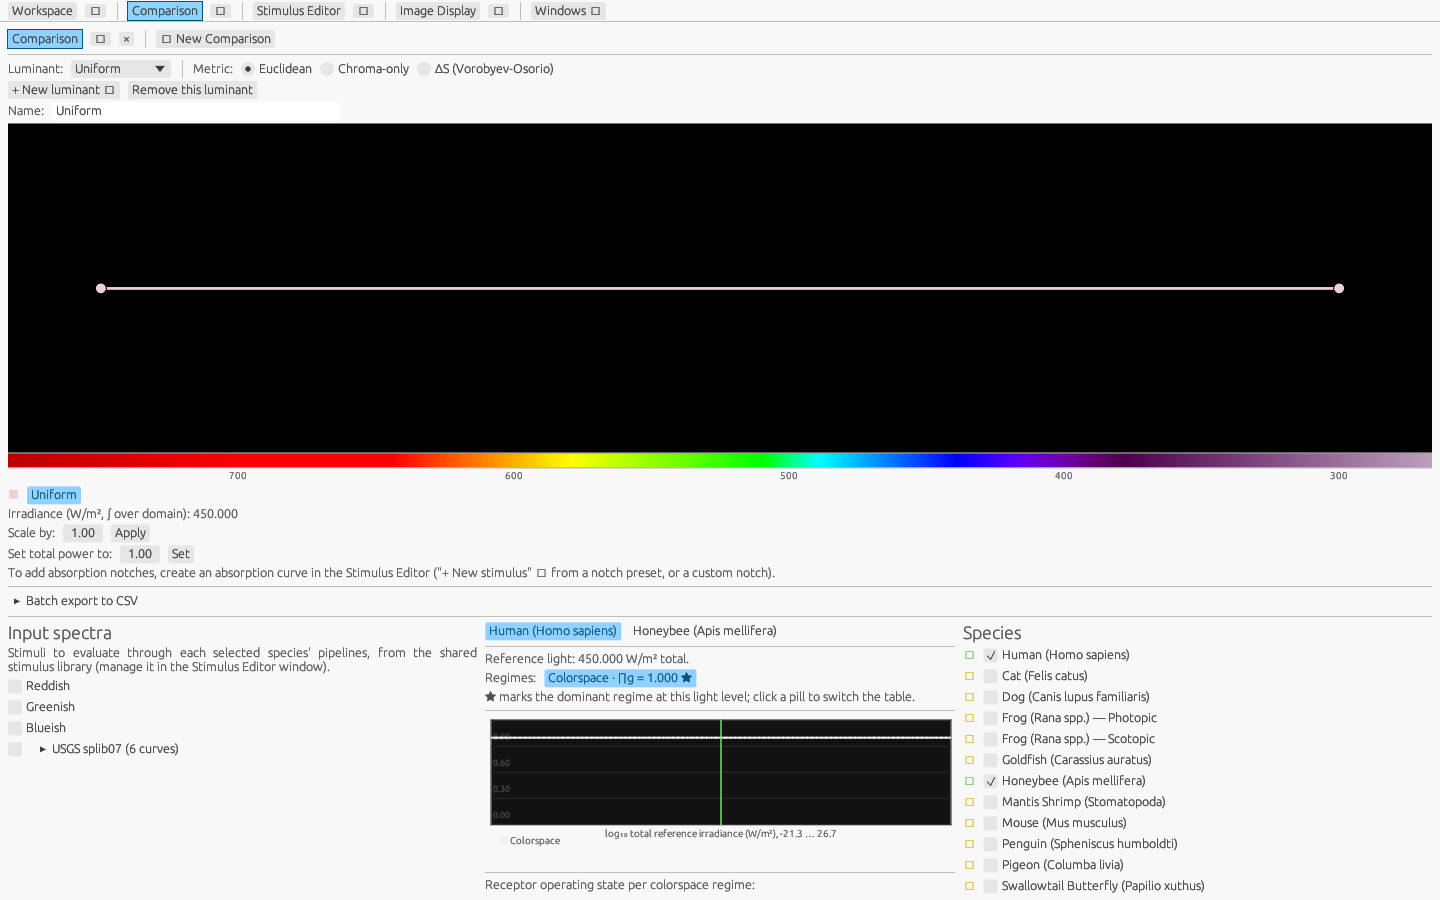
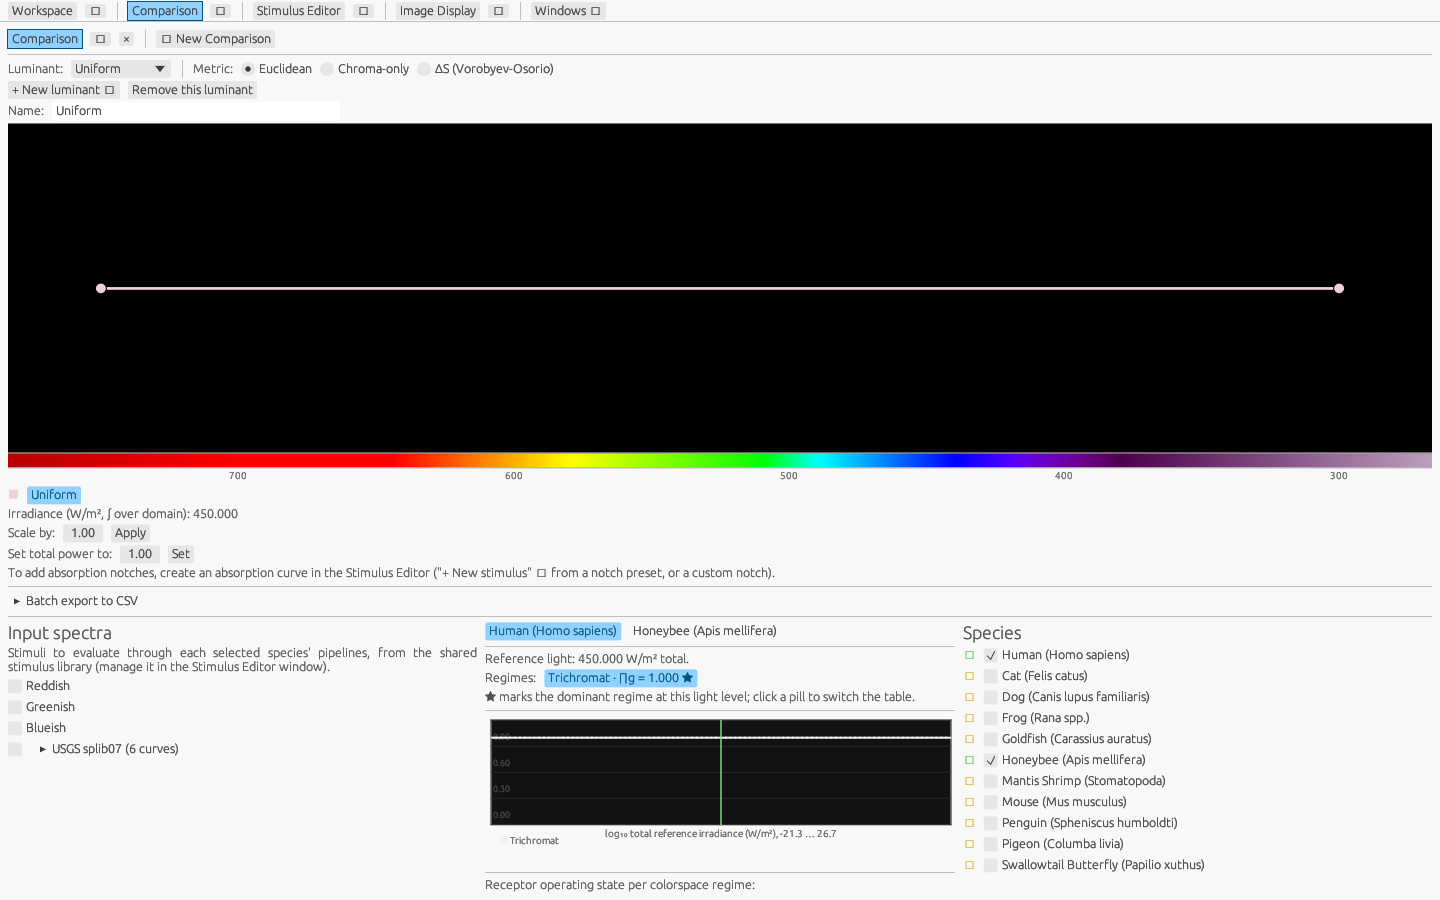
Update the human fixture for more accurate images

Changed region(s): [[0.6875, 0.7778, 0.8438, 0.9956], [0.375, 0.7467, 0.4688, 0.7778]]

diff --git a/crates/xenovision-core/src/fixture_library.rs b/crates/xenovision-core/src/fixture_library.rs
@@ -3,9 +3,13 @@
 //! `fixtures` subdirectory of the app's per-user data directory
 //! (`preset_store::data_dir()`) - not one combined array, so a fixture
 //! can be added, hand-edited, or deleted independently of the rest.
-//! Bootstrapped from `fixtures::builtin_fixtures()` on first run, with
-//! `restore_builtin_defaults` as the recovery mechanism if a built-in
-//! file gets corrupted or deleted.
+//! Bootstrapped from `fixtures::builtin_fixtures()` on first run. On every
+//! load the built-ins are also *reconciled* against the shipped
+//! definitions: a built-in file the user has never edited is refreshed
+//! when the shipped definition has moved on, while edited files and
+//! custom fixtures are left alone. `restore_builtin_defaults` remains the
+//! explicit recovery mechanism if a built-in file gets corrupted or
+//! deleted.
 
 use std::path::{Path, PathBuf};
 
@@ -43,6 +47,49 @@ fn file_path_for(dir: &Path, name: &str) -> PathBuf {
     dir.join(format!("{}.json", slug(name)))
 }
 
+/// Metadata key stamped into every file the app writes from a built-in
+/// definition: the content hash of that definition *excluding this key*.
+/// It lets reconciliation tell an unedited built-in snapshot (marker
+/// present and matching) from user content (marker absent or mismatched,
+/// or a name that isn't a built-in) - only the former is ever refreshed
+/// to a newer shipped definition.
+const BUILTIN_HASH_KEY: &str = "builtin_hash";
+
+/// Stable 64-bit FNV-1a hash of a fixture's canonical JSON with the
+/// built-in marker removed. Unlike `DefaultHasher` this is stable across
+/// releases, so a marker written by an earlier build still validates.
+fn content_hash(set: &CurveSet) -> u64 {
+    let mut probe = set.clone();
+    probe.metadata.remove(BUILTIN_HASH_KEY);
+    let json = serde_json::to_string(&probe).expect("CurveSet is always serializable");
+    json.bytes().fold(0xcbf2_9ce4_8422_2325_u64, |h, b| {
+        (h ^ u64::from(b)).wrapping_mul(0x0000_0100_0000_01b3)
+    })
+}
+
+/// The marker string for `set`'s current content.
+fn builtin_marker(set: &CurveSet) -> String {
+    format!("{:016x}", content_hash(set))
+}
+
+/// A built-in fixture as written to disk: `set` with its content marker
+/// stamped into the metadata.
+fn stamped_builtin(set: &CurveSet) -> CurveSet {
+    let mut out = set.clone();
+    out.metadata
+        .insert(BUILTIN_HASH_KEY.to_string(), builtin_marker(set));
+    out
+}
+
+/// Whether `set`, as loaded from disk, is an unedited snapshot of some
+/// built-in definition (its marker is present and still matches its own
+/// content). User edits break the match and are therefore preserved.
+fn is_unedited_builtin(set: &CurveSet) -> bool {
+    set.metadata
+        .get(BUILTIN_HASH_KEY)
+        .is_some_and(|stored| *stored == builtin_marker(set))
+}
+
 fn read_all(dir: &Path) -> Vec<CurveSet> {
     let Ok(entries) = std::fs::read_dir(dir) else {
         return Vec::new();
@@ -65,20 +112,37 @@ fn write_fixture_in(dir: &Path, set: &CurveSet) -> std::io::Result<()> {
     std::fs::write(path, json)
 }
 
+/// Refreshes any present built-in file that is still an unedited snapshot
+/// of a *previous* shipped definition, leaving user-edited and custom
+/// files untouched. A built-in the user deleted stays deleted.
+fn reconcile_builtins_in(dir: &Path, sets: &mut [CurveSet]) {
+    for builtin in builtin_fixtures() {
+        let Some(disk) = sets.iter_mut().find(|s| s.name == builtin.name) else {
+            continue;
+        };
+        if is_unedited_builtin(disk) && content_hash(disk) != content_hash(&builtin) {
+            *disk = stamped_builtin(&builtin);
+            let _ = write_fixture_in(dir, disk);
+        }
+    }
+}
+
 fn load_library_from(dir: &Path) -> Vec<CurveSet> {
-    let sets = read_all(dir);
-    if !sets.is_empty() {
-        return sets;
+    let mut sets = read_all(dir);
+    if sets.is_empty() {
+        // First run (empty/missing directory): extract every built-in.
+        for set in builtin_fixtures() {
+            let _ = write_fixture_in(dir, &stamped_builtin(&set));
+        }
+        return read_all(dir);
     }
-    for set in builtin_fixtures() {
-        let _ = write_fixture_in(dir, &set);
-    }
-    read_all(dir)
+    reconcile_builtins_in(dir, &mut sets);
+    sets
 }
 
 fn restore_builtin_defaults_in(dir: &Path) -> Vec<CurveSet> {
     for set in builtin_fixtures() {
-        let _ = write_fixture_in(dir, &set);
+        let _ = write_fixture_in(dir, &stamped_builtin(&set));
     }
     read_all(dir)
 }
@@ -257,6 +321,110 @@ mod tests {
         // Deleting an already-absent fixture is not an error.
         delete_fixture_in(&dir, "Deletable System").unwrap();
 
+        cleanup(&dir);
+    }
+
+    #[test]
+    fn bootstrapped_builtins_are_stamped_and_idempotent() {
+        let dir = scratch_dir("stamp");
+        let loaded = load_library_from(&dir);
+        assert_eq!(loaded.len(), 11);
+        assert!(
+            loaded.iter().all(is_unedited_builtin),
+            "every bootstrapped built-in must carry a matching marker"
+        );
+        assert_eq!(
+            load_library_from(&dir),
+            loaded,
+            "a second load with unchanged built-ins is a no-op"
+        );
+        cleanup(&dir);
+    }
+
+    #[test]
+    fn unedited_builtin_is_refreshed_when_the_shipped_definition_changes() {
+        let dir = scratch_dir("refresh");
+
+        // A previous release's built-in: the real fixture with one extra
+        // field, stamped so it reads as a genuine unedited snapshot.
+        let mut old_human = crate::fixtures::human();
+        old_human
+            .metadata
+            .insert("era".to_string(), "previous".to_string());
+        write_fixture_in(&dir, &stamped_builtin(&old_human)).unwrap();
+        // A custom fixture must survive untouched.
+        write_fixture_in(&dir, &CurveSet::new("My Custom System")).unwrap();
+
+        let loaded = load_library_from(&dir);
+        let human = loaded
+            .iter()
+            .find(|s| s.name == "Human (Homo sapiens)")
+            .unwrap();
+        assert!(
+            !human.metadata.contains_key("era"),
+            "an unedited built-in must be refreshed to the shipped definition"
+        );
+        assert!(
+            loaded.iter().any(|s| s.name == "My Custom System"),
+            "custom fixtures must survive reconciliation"
+        );
+        cleanup(&dir);
+    }
+
+    #[test]
+    fn edited_or_tampered_builtin_is_preserved() {
+        // An unmarked file (as a user save would leave it) ...
+        let dir = scratch_dir("preserve-unmarked");
+        let mut edited = crate::fixtures::human();
+        edited
+            .metadata
+            .insert("user_edit".to_string(), "keep me".to_string());
+        write_fixture_in(&dir, &edited).unwrap();
+        let loaded = load_library_from(&dir);
+        let human = loaded
+            .iter()
+            .find(|s| s.name == "Human (Homo sapiens)")
+            .unwrap();
+        assert_eq!(
+            human.metadata.get("user_edit").map(String::as_str),
+            Some("keep me"),
+            "a user-edited built-in must not be overwritten"
+        );
+        cleanup(&dir);
+
+        // ... and a stamped file whose content later diverged from its
+        // marker (an edit made after the snapshot was written).
+        let dir = scratch_dir("preserve-tampered");
+        let mut tampered = stamped_builtin(&crate::fixtures::human());
+        tampered
+            .metadata
+            .insert("user_edit".to_string(), "keep me too".to_string());
+        write_fixture_in(&dir, &tampered).unwrap();
+        let loaded = load_library_from(&dir);
+        let human = loaded
+            .iter()
+            .find(|s| s.name == "Human (Homo sapiens)")
+            .unwrap();
+        assert_eq!(
+            human.metadata.get("user_edit").map(String::as_str),
+            Some("keep me too"),
+            "a built-in whose marker no longer matches is user content"
+        );
+        cleanup(&dir);
+    }
+
+    #[test]
+    fn deleted_builtin_stays_deleted() {
+        let dir = scratch_dir("deleted");
+        load_library_from(&dir); // bootstrap the 11 built-ins
+        delete_fixture_in(&dir, "Human (Homo sapiens)").unwrap();
+
+        let loaded = load_library_from(&dir);
+        assert_eq!(loaded.len(), 10, "a deleted built-in is not resurrected");
+        assert!(
+            !loaded.iter().any(|s| s.name == "Human (Homo sapiens)"),
+            "reconciliation must respect a user's deletion"
+        );
         cleanup(&dir);
     }
 }

diff --git a/crates/xenovision-core/src/fixtures.rs b/crates/xenovision-core/src/fixtures.rs
@@ -108,6 +108,11 @@ pub fn human() -> CurveSet {
     // exercised through real CurveSet data per §8.2's representability
     // requirement. `opponent_contrasts` lives on the regime - the
     // colorspace it defines - not the set (§2.2).
+    //
+    // The blue-yellow row is written yellow-positive, i.e. negated from the
+    // textbook S - (M+L)/2, so the composite encoder (whose c2 grows towards
+    // yellow) renders a Human perceptual image with blue/yellow the right way
+    // round. Magnitude-only metrics such as ΔS are unaffected by the sign.
     set.regimes = vec![Regime::new(SINGLE_COLOR_VISION_REGIMES[0], vec![0, 1, 2])];
     set.regimes[0].opponent_contrasts = Some(vec![
         OpponentContrast {
@@ -115,8 +120,8 @@ pub fn human() -> CurveSet {
             weights: vec![0.0, -1.0, 1.0],
         },
         OpponentContrast {
-            name: "S - (M+L)/2 (blue-yellow)".to_string(),
-            weights: vec![1.0, -0.5, -0.5],
+            name: "(M+L)/2 - S (yellow-blue)".to_string(),
+            weights: vec![-1.0, 0.5, 0.5],
         },
     ]);
 
@@ -801,7 +806,7 @@ mod tests {
         let config = set.regime_config(&set.regimes[0]);
         assert_eq!(
             config.candidate_rows,
-            vec![vec![0.0, -1.0, 1.0], vec![1.0, -0.5, -0.5]]
+            vec![vec![0.0, -1.0, 1.0], vec![-1.0, 0.5, 0.5]]
         );
         assert_eq!(
             contrasts[0].weights,

diff --git a/docs/user-guide.md b/docs/user-guide.md
@@ -1,7 +1,5 @@
 # Xenovision User Guide
 
-A reference to every window, menu, and gesture in the current build.
-
 ## Overview
 
 Xenovision models and compares how different species perceive color. You
@@ -9,10 +7,10 @@ define a **visual system** as a set of photoreceptor sensitivity curves,
 Xenovision derives that system's luminance and chroma channels from them, and
 then evaluates arbitrary **stimulus spectra** (reflectance samples, light
 sources) through it to get perceptual coordinates and distances. Eleven
-literature-based species are built in, from trichromatic humans to the
+literature-based species are built in, from dichromatic dogs to the
 twelve-receptor mantis shrimp, and you can define your own alongside them.
 
-The interface is four panels - **Workspace**, **Comparison**, **Stimulus
+The interface consists of four panels - **Workspace**, **Comparison**, **Stimulus
 Editor**, and **Image Display** - sharing one window model (see
 [Arranging windows](#arranging-windows)): each panel is a **container** with
 its own top-level tab in the main window, each container holds one or more
@@ -34,39 +32,33 @@ right.](screenshots/main-window.png)
 - **Image Display** - render a loaded image (or one region of it) through a
   visual system's receptors and inspect the result channel by channel.
 
-Comparison, Stimulus Editor, and Image Display are **repeatable**: open
-several independent instances at once, each with its own setup, from a
-container's **＋ New** button or the **Windows** menu. They start closed on
-first launch.
-
 All four read and write the same underlying data. Edit a curve in Workspace
-and an open Comparison window updates on its next repaint - there's no
-separate "sync" step anywhere in the app.
+and an open Comparison window updates on its next repaint.
 
 ## Core concepts
 
-Xenovision standardizes on four curve types, plus two roles a curve can
-play:
+Xenovision standardizes on four curve types, plus three roles a curve can play:
 
 | Type | Meaning |
 |---|---|
 | **Sensitivity** | Unitless. A sample is meaningful only relative to the other curves in the same visual system - a receptor's response shape, not an absolute measurement. Always a Workspace curve, never a stimulus. |
-| **Radiance** | Units of power per area (an explicit unit string you set). A measurement of light itself - emitted, reflected, or otherwise reaching a point. |
+| **Radiance** | Units of power per area. A measurement of light itself - emitted, reflected, or otherwise reaching a point. |
 | **Reflectance** | Unitless, normalized so every sample is meant to fall in `[0, 1]` - a ratio describing a surface, not light itself. The Stimulus Editor flags (non-blocking) a curve with values outside that range. |
 | **Absorption** | Unitless, every sample in `[0, 1]`: the fraction of light an absorber lets through at that wavelength (1 = nothing absorbed). Applied to a luminant by point-wise multiplication, with a weight exponent: `luminant × absorption^weight` (0 = no effect, 1 = as-is, 2 = twice as strong, like passing through it twice). Atmospheric notches are absorption curves. |
 
 | Role | Meaning |
 |---|---|
+| **Response** | A Sensitivity curve indicating the response of a photoreceptor to incoming light at any frequency. |
 | **Luminant** | A Radiance curve used as the shared reference light every comparison is evaluated under. Managed in the Comparison window. |
-| **Stimulus curve** | Either a Radiance curve directly, or a Reflectance curve - in which case Comparison automatically filters it through the current luminant (`Reflectance × Luminant`) before evaluating it, rather than treating the raw ratio as if it were already light reaching the eye. Lives in the shared stimulus library (Stimulus Editor window), never in a Workspace tab. |
+| **Stimulus curve** | Either a Radiance curve directly, or a Reflectance curve - in which case Comparison automatically filters it through the current luminant (`Reflectance × Luminant`) before evaluating it, rather than treating the raw ratio as if it were already light reaching the eye. Lives in the shared stimulus library (Stimulus Editor window). |
 
 Other terms used throughout:
 
 | Term | Meaning |
 |---|---|
-| **Curve Set** | A named collection of receptor (Sensitivity) curves - one species' full visual system, open as a Workspace tab. |
+| **Curve Set** | A named collection of receptor response (Sensitivity) curves - one species' full visual system, open as a Workspace tab. |
 | **Regime** | A named colorspace: a set of pool receptors that jointly produce luminance + chroma, with its own membership, luminance weights, and opponent contrasts. Most species have one (their whole eye); the frog has three (scotopic/mesopic/photopic, §2.3.10); a receptor can be in several. |
-| **Unaffiliated receptor** | A receptor in the pool that belongs to no regime - e.g. non-color-vision photoreceptors (swallowtail butterfly's violet/broad-band classes), or (mantis shrimp) every receptor it has. Draws a hollow dot (○) in the left rail, reported individually, never part of any luminance/chroma calculation. |
+| **Unaffiliated receptor** | A receptor in the pool that belongs to no regime - e.g. non-color-vision photoreceptors (swallowtail butterfly's violet/broad-band classes), or every mantis shrimp receptor. Draws a hollow dot (○) in the left rail, reported individually, never part of any luminance/chroma calculation. |
 | **ω (Weber fraction)** | Per-receptor noise term. Blank means "no data," not zero. |
 | **η (relative density)** | Per-receptor density, meaningful relative to the other receptors in the same set. Also blank-means-no-data. |
 | **w_i (luminance weight)** | How much a receptor contributes to luminance. Blank = integral-derived default; set it to override. |
@@ -83,12 +75,19 @@ fixtures - into your system's per-user data directory
 tab per species. The stimulus library starts seeded with three example
 reflectance curves (Reddish/Greenish/Blueish) so Comparison has something to
 work with immediately, and the luminant list starts with a flat "Uniform"
-reference and a 5778K solar default. Nothing to configure.
+reference and a 5778K solar default.
+
+Built-in fixture files you haven't changed are kept current automatically:
+on launch, a built-in whose contents still match the copy Xenovision last
+wrote is refreshed if the shipped definition has since been updated. Modify a
+file (in the app or by hand) and it becomes yours - Xenovision leaves it alone
+from then on, and *Restore Default Fixtures...* is the way to pull the current
+shipped data back.
 
 ## Workspace window
 
-Three columns: left rail, center graph pane, right inspector. Drag the
-dividers to resize.
+The Workspace window consists of three columns: the left rail, the center
+graph pane, and the right inspector. Drag the dividers to resize.
 
 **Menu bar** - File (save/load, restore defaults, export CSV), View (axis
 orientation, global), Window (open, close, dock, or undock any panel - see
@@ -173,8 +172,6 @@ disjoint (it can never be active at any light level).
 
 ## Comparison window
 
-Top bar, then three columns.
-
 ![The Comparison window: the luminant picker on top, the input-spectra
 checklist on the left (four USGS reflectance curves ticked), the species
 checkboxes on the right (Human and Honeybee), and the per-species coordinate
@@ -230,7 +227,7 @@ refresh.
 
 ## Stimulus Editor window
 
-Where every stimulus curve (reflectance or radiance) is created and
+This is where every stimulus curve (reflectance or radiance) is created and
 edited - the counterpart to Workspace, but for the shared stimulus
 library instead of visual systems. Left rail: the library, with a **+ New
 stimulus ▾** menu and a **×** per curve to unload it (warns first if it has

diff --git a/docs/design-doc.md b/docs/design-doc.md
@@ -248,7 +248,7 @@ Peak sensitivities (λmax) below are literature-sourced (see References). Ten sp
 #### 2.3.1 Human (*Homo sapiens*) — Trichromat (N=3)
 - **S-cone**: λmax ≈ 420 nm. **M-cone**: λmax ≈ 530 nm. **L-cone**: λmax ≈ 560 nm.
 - **Luminance weighting**: L+M dominant, consistent with the standard photopic luminosity function (CIE V(λ)); S-cone contribution near zero.
-- **Opponent pairing**: literature-standard red-green (L−M) and blue-yellow (S−(L+M)) candidate contrasts, orthogonalized against luminance per §2.2.4 (both already nearly independent of luminance in the human case).
+- **Opponent pairing**: literature-standard red-green (L−M) and blue-yellow candidate contrasts, orthogonalized against luminance per §2.2.4 (both already nearly independent of luminance in the human case). The blue-yellow row is stored yellow-positive, (L+M)−S — the negation of the textbook S−(L+M) — so the perceptual composite's chroma encoder (whose C_b grows towards yellow) renders with blue and yellow oriented naturally; the contrast is the same up to sign, so sign-invariant metrics such as ΔS are unaffected.
 
 #### 2.3.2 Dog (*Canis lupus familiaris*) — Dichromat (N=2)
 - **S-cone**: λmax ≈ 429–435 nm. **L/M-cone**: λmax ≈ 555 nm.
@@ -617,6 +617,8 @@ The 11 built-in fixtures are shipped as **11 separate files**, one per Curve Set
 **Runtime treatment**: these files are placed in a known, user-visible location (e.g. an application data directory) as ordinary, user-editable files — not read-only bundled resources. A user can open, inspect, modify, or delete them exactly as they would any other saved Curve Set, using the mechanisms in §1.3/§1.5. This means the built-in presets are simultaneously (a) working examples a new user can learn the data format from by inspection, and (b) ordinary starting points a user can freely customize, with no separate "preset vs. custom" code path.
 
 **Recovery**: because these files are user-editable and can be modified, corrupted, or deleted, the application retains an internal pristine copy of all built-in fixtures (embedded as read-only reference data at build time, separate from the user-visible/editable copies on disk) and exposes a "restore defaults" / "re-extract fixtures" action that regenerates the user-visible files from this pristine copy.
+
+**Incremental refresh**: independently of the explicit restore action, the application reconciles the on-disk built-ins against the shipped definitions on every launch. Each file the application itself writes carries a content-hash marker in its metadata; a built-in file whose content still matches its marker (the user has not altered it) is automatically refreshed when the shipped definition has moved on, so corrections reach existing installations without a manual restore. A file whose marker no longer matches its content, or that never carried one, is treated as user content and left untouched — as are custom fixtures and deleted built-ins — so this never silently discards an edit.
 
 ### 8.4 Interaction with Other Sections
 §7's custom visual systems and the built-in preset species are the same kind of object at the data level: both the representability guarantee (§8.2) and the packaging decision (§8.3 — presets are editable like any other Curve Set) establish this directly.
